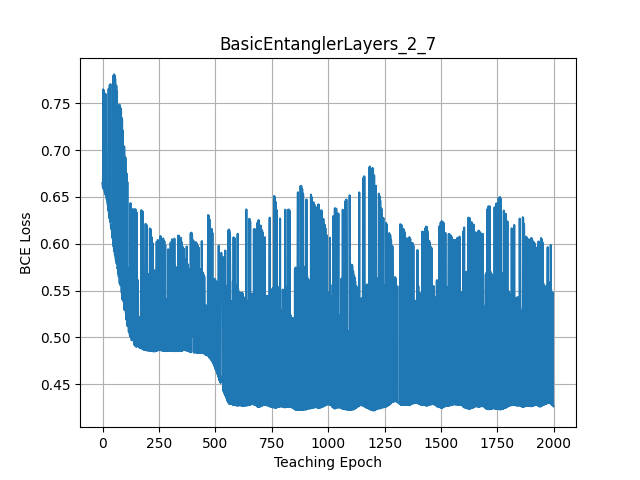
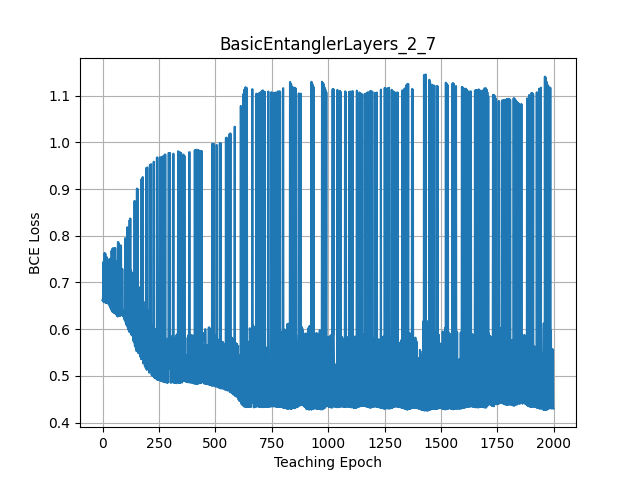
retraining with break notes.

diff --git a/README.md b/README.md
@@ -95,9 +95,9 @@ You should hear *twinkle star*, otherwise revisit above.
 ## q~~m~~usician: Quantum Musician Ansatz
 
 Let's invite three of our *qusicians*, who prefers a particular ansatzs:
-- qusician-Alice: [BasicEntanglerLayers](https://pennylane.readthedocs.io/en/stable/code/api/pennylane.BasicEntanglerLayers.html)
-- qusician-Bob: [StronglyEntanglingLayers](https://pennylane.readthedocs.io/en/stable/code/api/pennylane.StronglyEntanglingLayers.html)
-- qusician-Charlie: [RandomLayers](https://pennylane.readthedocs.io/en/stable/code/api/pennylane.RandomLayers.html)
+- *qusician*-Alice: [BasicEntanglerLayers](https://pennylane.readthedocs.io/en/stable/code/api/pennylane.BasicEntanglerLayers.html)
+- *qusician*-Bob: [StronglyEntanglingLayers](https://pennylane.readthedocs.io/en/stable/code/api/pennylane.StronglyEntanglingLayers.html)
+- *qusician*-Charlie: [RandomLayers](https://pennylane.readthedocs.io/en/stable/code/api/pennylane.RandomLayers.html)
 
 A *qusician* plays the piano based on a melody line, by embedding with [BasisEmbedding](https://pennylane.readthedocs.io/en/stable/code/api/pennylane.BasisEmbedding.html).
 Our qusician-Charlie may look like below:
@@ -116,16 +116,16 @@ def qusician(melody):
 ```
 
 The *qusician* python class is introduced in [qusic.py](./qusic.py).
-Our qusician-Charlie would visit us by calling as:
+Our *qusician*-Charlie would visit us by calling as:
 ```python
 python qusic.py --ansatz RandomLayers --layers 2 7
 ```
 
 Note that, without teaching them, they are just novice-level players because the variational parameters are random at beginning. 
-Also note that the tarent depends on quantum ansatz and the number of layers.
+Also note that the tarent depends on how he/she thinks (i.e., quantum ansatz) and how deep he/she thinks (i.e., the number of quantum layers).
 Let's introduce our q~~m~~aestro who may instruct them to play the piano.
 
-## q~~m~~astro: Quantum Maestro Teacher
+## q~~m~~aestro: Quantum Maestro Teacher
 
 Our *qaestro* teacher is introduced in [qaestro.py](./qaestro.py). 
 He may use a particular teaching style, like [AdamOptimizer](https://pennylane.readthedocs.io/en/stable/code/api/pennylane.AdamOptimizer.html).
@@ -144,57 +144,80 @@ weights = qaestro.step(mis_finger, weights) # qaestro's guide
 
 ## Teaching Perforamnce
 
-### qusician-Alice (BasicEntanglerLayers):
+### q~~m~~usician-Alice (BasicEntanglerLayers):
 
-Let's see how qusician-Alice would be trained by our qaestro:
+Let's see how *qusician*-Alice would be trained by our qaestro:
 ```bash
-python qaestro.py --ansatz BasicEntanglerLayers --layers 2 7 --epoch 2000
+python qaestro.py --ansatz BasicEntanglerLayers --layers 2 7 --epoch 2000 --showfig
 ```
-Her skill is improved with some deviation as below.
+Her skill is improved with large deviation as below.
 ![basic2](./plots_demo/BasicEntanglerLayers_2_7.png)
 
-Unfortunately, even with 7-layer ansatz, her skill seems not that great:
+After training, she looks like below:
+```python
+>> model.draw()
+ C: ──RX(-6.88e-06)──╭C────────────────────────────────────────────────────────────────────────╭X──RX(-0.000264)──╭C──────────────────────╭X──┤ ⟨Z⟩ 
+ D: ──RX(1.09e-05)───╰X──╭C───RX(2.09e-05)─────────────────────────────────────────────────────│──────────────────╰X──╭C──────────────────│───┤ ⟨Z⟩ 
+ E: ──RX(-1.56)──────────╰X──╭C──────────────RX(-0.853)────────────────────────────────────────│──────────────────────╰X──╭C──────────────│───┤ ⟨Z⟩ 
+ F: ──RX(-1.3)───────────────╰X─────────────╭C────────────RX(1.66)─────────────────────────────│──────────────────────────╰X──╭C──────────│───┤ ⟨Z⟩ 
+ G: ──RX(1.36)──────────────────────────────╰X───────────╭C──────────RX(-2.37)─────────────────│──────────────────────────────╰X──╭C──────│───┤ ⟨Z⟩ 
+ A: ──RX(-2.15)──────────────────────────────────────────╰X─────────╭C──────────RX(-0.000427)──│──────────────────────────────────╰X──╭C──│───┤ ⟨Z⟩ 
+ B: ──RX(8.41e-05)──────────────────────────────────────────────────╰X─────────────────────────╰C──RX(-0.00425)───────────────────────╰X──╰C──┤ ⟨Z⟩ 
+ ```
+
+Unfortunately, even with more deep thinking (32-layer ansatz), her skill seems not that great:
 ```bash
-python qaestro.py --ansatz BasicEntanglerLayers --layers 7 7 --epoch 2000
+python qaestro.py --ansatz BasicEntanglerLayers --layers 32 7 --epoch 2000 --showfig
 ```
-![basic7](./plots_demo/BasicEntanglerLayers_7_7.png)
+![basic32](./plots_demo/BasicEntanglerLayers_32_7.png)
 
-### qusician-Bob (StronglyEntanglingLayers):
+### q~~m~~usician-Bob (StronglyEntanglingLayers):
 
-Let's check how our quasician-Bob would do:
+Let's check how our *quasician*-Bob would do:
 ```bash
-python qaestro.py --ansatz StronglyEntanglingLayers --layers 2 7 --epoch 2000
+python qaestro.py --ansatz StronglyEntanglingLayers --layers 2 7 --epoch 2000 --showfig
 ```
 ![strong2](./plots_demo/StronglyEntanglingLayers_2_7.png)
 
-It seems that his skill is comparable to qusician-Alice.
-However, he seems more serious in the piano training if he uses 7-layer ansatz:
+It seems that his skill is comparable to *qusician*-Alice.
+However, he seems more serious in the piano training if he uses deeper insights with 32-layer ansatz:
 ```bash
-python qaestro.py --ansatz StronglyEntanglingLayers --layers 7 7 --epoch 2000
+python qaestro.py --ansatz StronglyEntanglingLayers --layers 32 7 --epoch 2000 --showfig
 ```
-![strong7](./plots_demo/StronglyEntanglingLayers_7_7.png)
+![strong32](./plots_demo/StronglyEntanglingLayers_32_7.png)
 
-## qusician-Charlie (RandomLayers):
+His playing looks more stable with less scolding by *qaestro*.
+Note that [StronglyEntanglingLayers](https://pennylane.readthedocs.io/en/stable/code/api/pennylane.StronglyEntanglingLayers.html) have three-fold more variational parameters per layer than [BasicEntanglerLayers](https://pennylane.readthedocs.io/en/stable/code/api/pennylane.BasicEntanglerLayers.html).
+
+
+## q~~m~~usician-Charlie (RandomLayers):
+
+How skillful is our *qusician*-Charlie?
+```bash
+python qaestro.py --ansatz RandomLayers --layers 2 7 --epoch 2000 --showfig
+```
+![rand2](./plots_demo/RandomLayers_2_7.png)
+
+His playing seems awful and receives a lot of penalty by *qaestro*.
+However, we found that he would be more serious in the piano training if he considers deeper insights with 32-layer ansatz:
+```bash
+python qaestro.py --ansatz RandomLayers --layers 32 7 --epoch 2000 --showfig
+```
+![rand32](./plots_demo/RandomLayers_32_7.png)
+
+Then, he may be more skillful than *qusician*-Alice, while the number of variational parameters is equivalent.
 
 <!--
-Surprisingly, we found that our qusician-Charlie is more skillful as follows:
-```bash
-python qaestro.py --ansatz RandomLayers --layers 2 7 --epoch 2000
-```
-![strong2](./plots_demo/RandomLayers_2_7.png)
-
-He achieves nearly zero penalty by qaestro's instruction (just with about 250 scoding)!
-
 After training, he looks like below:
 ```python
 >> model.draw()
- C: ──╭C───────────────RZ(-0.528)─────────────────────────────────────────────┤ ⟨Z⟩ 
- D: ──╰X───────────────RY(-4.09e-07)──RZ(-3.11)────────────╭X──RZ(1.46)───────┤ ⟨Z⟩ 
- E: ───────────────╭X──RY(0.323)──────RY(1.2)────RY(-1.3)──│───RY(-0.223)─────┤ ⟨Z⟩ 
- F: ───RX(3.14)────│───RZ(-1.57)───────────────────────────╰C──RY(-5.76e-06)──┤ ⟨Z⟩ 
- G: ───────────────╰C─────────────────────────────────────────────────────────┤ ⟨Z⟩ 
- A: ───RZ(-0.249)──────RX(5.62e-07)───────────────────────────────────────────┤ ⟨Z⟩ 
- B: ───RZ(-0.384)─────────────────────────────────────────────────────────────┤ ⟨Z⟩ 
+ C: ──╭C───────────────RZ(-0.528)──RY(0.252)──RY(1.33)─────────────────────────────────────────────────────────────────────────────╭C───────────────────────╭C───────────╭X──RZ(0.293)─────RY(0.00413)──╭C──────────────────────────────────────────────╭X───RX(0.00563)───RY(-1.59)──────────────╭X──RY(0.503)───RY(0.817)─────────────────────────────────────────╭X──────────────╭C───────────────────────────────────────────────╭X───RY(-0.207)─────────────╭C──RX(1.07)────RX(0.5)─────RZ(-0.174)───────────RY(-0.133)──RZ(0.169)─────────────────────────────────────────────────────┤ ⟨Z⟩ 
+ D: ──╰X───────────────RY(-1.58)───RZ(-3.13)─────────────╭X──RZ(0.591)──────────────╭X─────────────╭X─────────────╭C──RY(0.00162)──╰X───────────────────────│────────────╰C──RZ(-0.0107)───RX(-1.64)────│───────────────────────────────────────────────│───╭X─────────────RY(1.2)────RZ(1.12)────│───RY(0.742)──────────────────╭C─────────────────╭C──RY(0.681)───│───────────────│─────────────╭C──────────────────╭C──RY(-1.23)──│───╭X───────────RX(-1.21)──│───RY(0.727)───RZ(1.01)────────────────────╭X───RZ(0.151)───RY(0.0354)────RX(-0.675)─────RY(1.86)───RX(-1.19)──RY(0.649)──┤ ⟨Z⟩ 
+ E: ───────────────╭X──RY(1.32)────RY(2.2)────RY(-0.31)──│───RY(0.77)────RZ(-1.51)──│───RZ(0.731)──│──────────────│─────────────────────────────────────────│────────────╭C──RZ(-0.681)───╭C────────────│──────────────────╭X──RX(1.56)─────RZ(-0.329)──│───╰C────────────╭X──────────────────────│──────────────────────────╭C──│───RX(0.775)──────│───RZ(0.4)─────│───RX(0.812)───│───RZ(1.23)──│───────────────╭X──│───RX(0.681)──│───│───────────────────────╰X──RY(0.497)───RY(-0.532)──────────────╭C──│────RZ(0.626)───RY(1.07)──────RZ(1.53)───────RX(-2.07)────────────────────────┤ ⟨Z⟩ 
+ F: ───RX(1.56)────│───RZ(-1.59)─────────────────────────╰C──RY(-0.183)──RY(0.181)──│───RX(-1.99)──│───RX(-2.26)──│───RZ(2.58)──────────────────────────────│────────────│────────────────│─────────────│──────────────────│────────────────────────────│─────────────────│───────────────────────╰C──RZ(0.54)───────────────│───│──────────────╭X──│───RX(-0.945)──│───RY(-1.56)───│───RX(1.04)──│───RX(2.09)────│───│──────────────│───╰C───────────RZ(0.313)──────────────────────────────────────────│───│───╭X───────────RZ(-0.0744)───RY(-0.00282)───RZ(0.594)────────────────────────┤ ⟨Z⟩ 
+ G: ───────────────╰C───────────────────────────────────────────────────────────────╰C─────────────│──────────────│─────────────────────────────╭C──────────╰X───────────╰X──RX(-1.54)────│─────────────╰X─────────────╭X──│────────────────────────────│───╭X────────────╰C──────────RZ(0.0243)──────RZ(-0.448)──RX(1.52)───│───│───RY(1.15)───│───│───────────────│───────────────│─────────────│───────────────╰C──│───RY(0.773)──│────RZ(-0.192)──RX(0.379)──────RZ(-0.623)──RY(0.801)───RY(-0.213)──│───│───╰C───────────RX(-0.0304)───RZ(0.315)───────────────────────────────────────┤ ⟨Z⟩ 
+ A: ───RZ(-0.249)──────RX(-2.22)───────────────────────────────────────────────────────────────────╰C──RX(0.746)──│───RY(-0.828)────RY(-1.05)───╰X───────────RX(0.0455)──╭C───────────────│────────────────────────────╰C──│───RX(0.00595)──────────────╰C──╰C─────────────RX(1.61)───RZ(0.0447)──────RX(0.503)──────────────╰X──│──────────────│───╰X──RX(1.2)─────│───RY(-0.639)──│───RX(1.75)──│───RY(-0.833)──────│───RZ(-2.41)──│────RY(0.876)──────────────────────────────────────────────────────│───╰C───RY(0.778)───────────────────────────────╭X────────────────────────────────┤ ⟨Z⟩ 
+ B: ───RZ(-0.384)─────────────────────────────────────────────────────────────────────────────────────────────────╰X──RZ(0.364)─────RZ(-0.903)───RZ(-1.15)───────────────╰X──RY(0.00567)──╰X─────────────RY(-0.00778)──────╰C──RZ(-1.52)─────────────────────────────────────────────────────────────────────────────────────────╰X─────────────╰C──────────────────╰C──────────────╰X────────────╰X──────────────────╰X─────────────╰C──────────────────────────────────────────────────────────────────╰X───────RY(0.743)───RX(-0.00879)──RZ(-0.00567)──╰C──────────RY(1.6)───────────────┤ ⟨Z⟩ 
 ```
 -->
 
